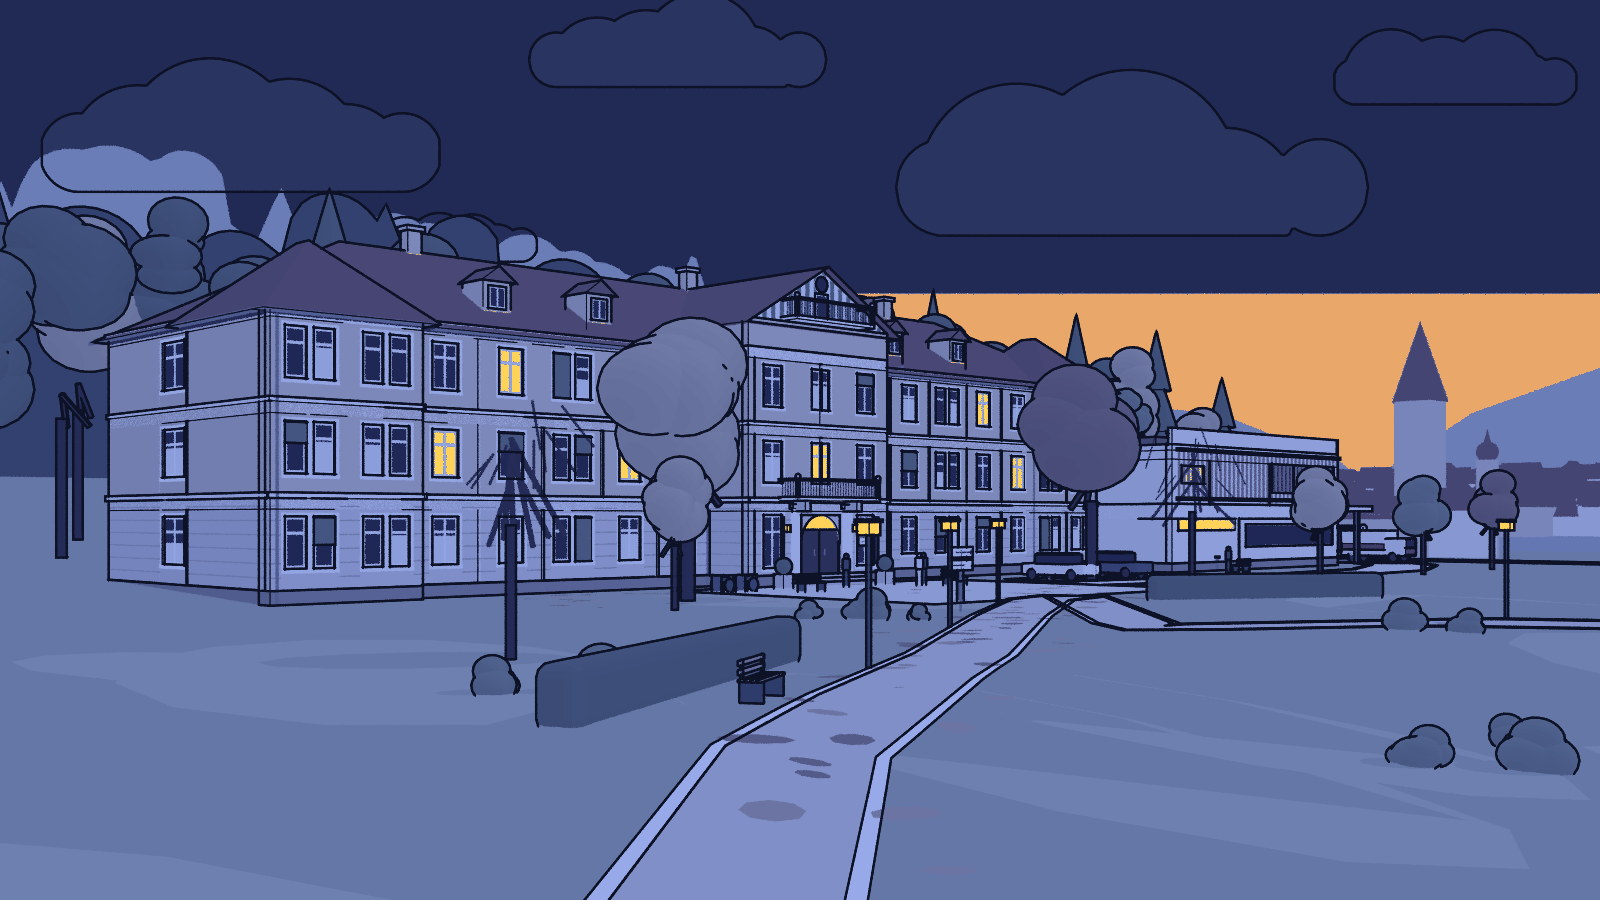
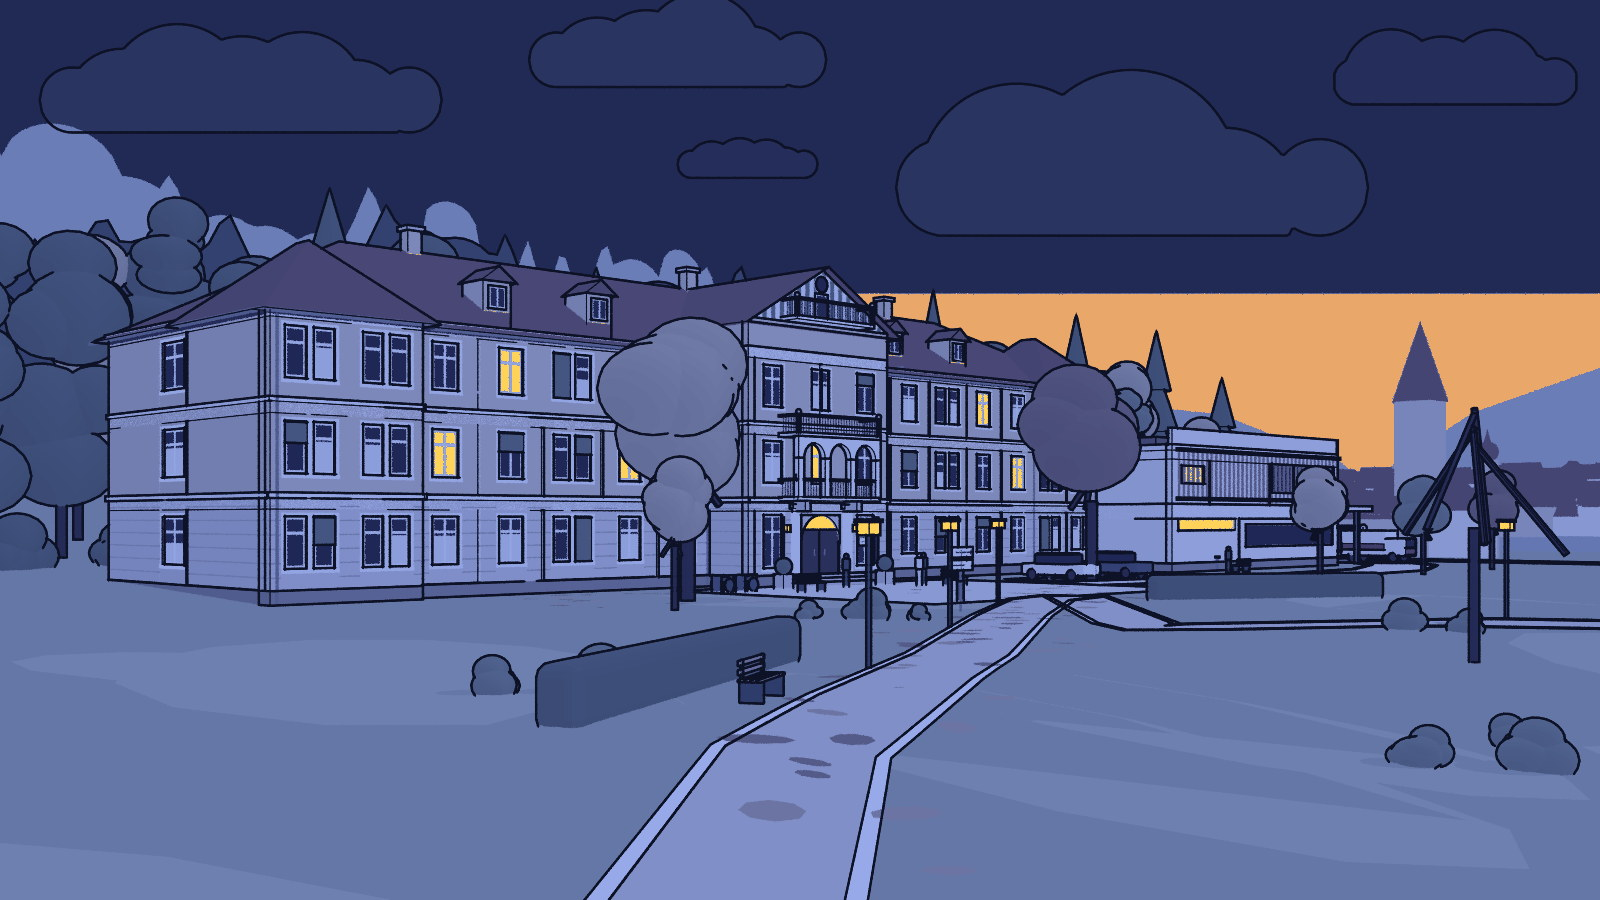
HAUS: Korrekturrunde Fassade (Loggia mit drei Bögen, Wolken über dem Waldband, kahler Baum als klare Form, keine Stamm-Pfähle)
Loggia mit drei Rundbögen auf vier Pfeilern vor dem Portalbalkon, darüber Austritt des 2. OG; Wolken links höher, weil
das ferne Waldband vor der Himmelsebene in die Wolke ragte; nur noch ein kahler Baum (Wiese rechts) mit Stamm und fünf
kräftigen Hauptästen mit Umriss; Waldbäume mit tiefer Krone, Unterkrone, ohne Astgabel, Unterholz am Waldrand, Wald West
ab y −26 — die „Pfähle" neben dem Westgiebel waren Stämme der nahen Waldreihe. Alle drei Außenbilder neu gerendert.

diff --git a/gen/blender/README.md b/gen/blender/README.md
@@ -125,14 +125,16 @@ Das Geländenetz liegt in der Sammlung `Boden`: Freestyle nutzt es als Verdecker
 Fassade und Hof ausdetailliert (25.10.2026, KRANKENHAUS.md „Fassade ausdetailliert"): Tabellen `FENSTERDEKOR`, `RUSTIKA`,
 `GESIMSE`, `FASSADENKANTEN`, `TRAUFE_OHNE`, `SPARREN`, `FALLROHRE`, `GAUBEN`/`GAUBE`, `PORTAL_DEKOR`, `GIEBEL_DEKOR`, `ZUFAHRT`,
 `STELLPLAETZE`, `FIGUREN`, `WEGWEISER`, `HALTESTELLE`, `RAUCHERECKE`, `FAHRRAEDER`, `JUNGBAEUME`, `KAHLE_BAEUME`, `HERBST`, `LAUB`,
-`WOLKEN_KUMULUS`; Funktionen `prisma` (ebenes Vieleck ausgezogen, Bogenzwickel des Portals), `bank`, `auto`, `figur`, `balkon`,
+`WOLKEN_KUMULUS`, `LOGGIA`, `UNTERHOLZ`; Funktionen `prisma` (ebenes Vieleck ausgezogen, Bogenzwickel des Portals), `bank`, `auto`, `figur`, `balkon`,
 `kante_box` (Gesimse und Sparrenköpfe entlang `FASSADENKANTEN`), `laubfleck`, `kumulus` (in `himmel_setzen`), Baumart `kahl`.
 Maßstab von Kamera (a) ≈ 17 px/m: alles unter 0,1 m bekommt **keine eigene Tuschelinie** (Materialien `rahmen`, `fasche`,
 `fuge`, `holz_gruen`, `gardine`, `zink`, `schrift`, `sparren`, `lamelle`, `ast`, `laub_boden*` in `OHNE_LINIE`), sonst wurden
 Fensterrahmen und Astwerk zu schwarzem Gekritzel; Linie nur an Laibung, Scheibe, Rollladen, Gesims, Handlauf. `kiste` ohne Fase
 baut jetzt ein Netz per `from_pydata` statt `bpy.ops` (bei 4 000 Objekten kostete jeder Operator eine Depsgraph-Aktualisierung:
 Bau 8 min statt 42 s). Kumuluswolken müssen ganz im Bild liegen (±458 m auf der 900-m-Ebene), sonst läuft ihre flache
-Grundlinie als Lineal bis zum Bildrand. Sammlungen `Hof` und `Figuren` sind in `OHNE_SCHATTEN`.
+Grundlinie als Lineal bis zum Bildrand, und links müssen sie über dem fernen Waldband 2 liegen (Unterkante ≥ z 220: das Band
+steht VOR der Himmelsebene). Sammlungen `Hof` und `Figuren` sind in `OHNE_SCHATTEN`. Waldbäume bekommen `stammanteil` (Krone
+tief, Unterkrone, keine Astgabel), sonst stehen ihre Stämme als Pfähle neben dem Haus.
 
 ```bash
 python3 gen/blender/haus_blockout.py bauen              # ≈ 45 s (4 050 Objekte) -> bau/blender/haus/haus_blockout.blend + .glb

diff --git a/docs/KRANKENHAUS.md b/docs/KRANKENHAUS.md
@@ -740,12 +740,18 @@ Umgesetzt in `gen/blender/haus_blockout.py` (Tabellen siehe `gen/blender/README.
   Stunde dunkel vor dem Morgenrot.
 - **Bau:** 4 050 Objekte, `bauen` 42 s (Quader ohne Fase als Netz statt Operator), Render Tag 13–26 s, Blau 8–13 s.
 
+**Korrekturrunde (25.10.2026, nach Sichtung durch den Koordinator):** Loggia mit drei Rundbögen auf vier Pfeilern vor dem
+Portalbalkon (`LOGGIA`, Bogenfeld als Prisma), darüber Austritt des 2. OG mit Brüstung. Wolken links höher gesetzt: das ferne
+Waldband 2 (`wald_fern`, 170–240 m vor der Kamera) liegt VOR der Himmelsebene und reichte bis z ≈ 208 auf 890 m in die Wolke.
+Kahle Bäume: nur noch einer (Wiese rechts des Wegs, 13 / −45), als klare Form Stamm + fünf kräftige Hauptäste mit Umriss,
+keine Zweige; der vor der Fassade ist weg. Die „Pfähle" am linken Bildrand waren Stämme der nahen Waldreihe (x −4 … 7, y 40,
+109 m weit) links des Westgiebels: Waldbäume tragen die Krone jetzt tiefer (`stammanteil` 0,14, Unterkrone, keine Astgabel),
+dazu Unterholz am Waldrand (`UNTERHOLZ`); Wald West beginnt bei y −26 (bei −40 standen Föhrenstämme 23 m neben der Kamera).
+
 **Offene Punkte / Fragen an den Nutzer:**
 - Gardinen lesen sich als helle untere Scheibe, nicht als Stoff — reicht das, oder lieber nur Rollläden und Glas?
-- Loggia mit Bögen (wie am Vorbild) gibt es nicht; stattdessen zwei Balkone (Portal, Giebel). Gewünscht?
 - Kopfsteinmuster der Zufahrt fehlt (bei 17 px/m nicht zeichenbar); Pflaster bleibt eine Fläche.
-- Kahle Bäume stehen vor der Westfassade (x −7 / y −28,5) und vor Trakt N (44,5 / −17,5): Astwerk ohne Linie liest als
-  Gestrüpp; gefallen sie, oder weg damit?
+- Der eine kahle Baum (rechts, vor Tal und Himmel): behalten?
 - Schild „Haus Föhrenhang" trägt nur Textbalken; lesbarer Schriftzug erst in der Spielgrafik (Overlay) möglich.
 - Figuren sind Kapseln ohne Haltung; echte Silhouetten kommen mit `figuren_zeichnen.py`.
 - Trakt N 1. OG SE: Fensterband hinter den Lamellen für Schaltraum/Arztzimmer eingeführt (§3 sagte „keine") — bestätigen.
